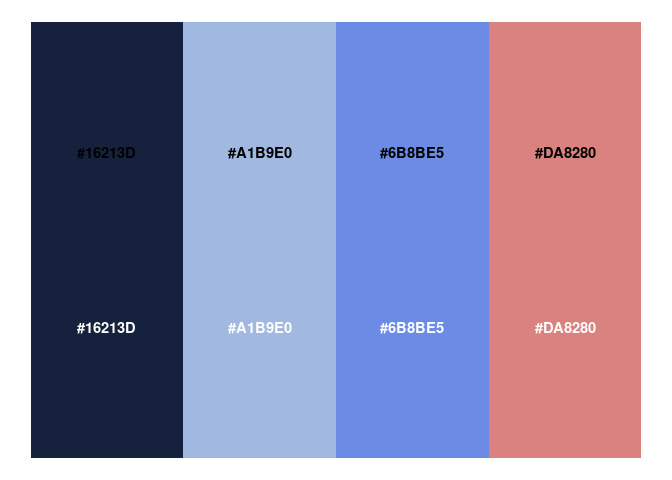
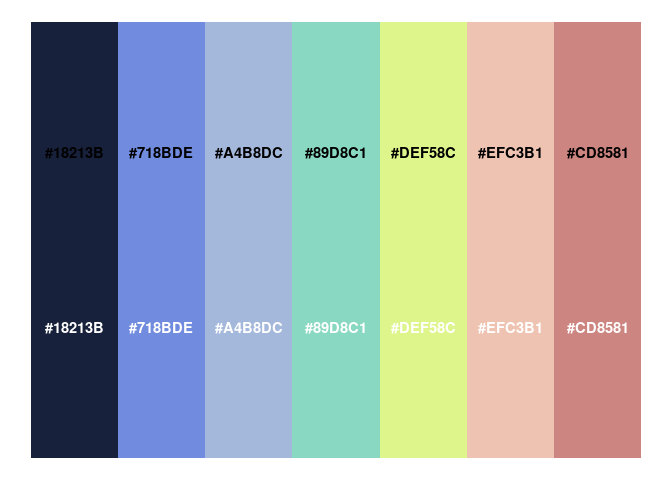
doc(): Updaiting styles to rebrand

diff --git a/README.md b/README.md
@@ -41,12 +41,6 @@ a stronger brand connection with our audience.
 
 <div>
 
-<img src="man/figures/heatmap.jpg" style="width: 100%; height: auto;">
-
-</div>
-
-<div>
-
 <img src="man/figures/bubbleplot.jpg" style="width: 100%; height: auto;">
 
 </div>
@@ -63,6 +57,12 @@ a stronger brand connection with our audience.
 
 </div>
 
+<div>
+
+<img src="man/figures/heatmap.jpg" style="width: 100%; height: auto;">
+
+</div>
+
 </div>
 
 ## Colour Palettes
@@ -71,15 +71,15 @@ The package has a range of colour palettes that are aligned with
 Exploristics brand but provide flexibility to create bespoke data
 visualizations. These palettes are:
 
-### Expl_Rebrand
+### Rebrand
 
 <img src="man/figures/README-unnamed-chunk-3-1.png" width="100%" />
 
-### Expl_External
+### External
 
 <img src="man/figures/README-unnamed-chunk-4-1.png" width="100%" />
 
-### Expl_HighContrast
+### High Contrast
 
 <img src="man/figures/README-unnamed-chunk-5-1.png" width="100%" />
 
